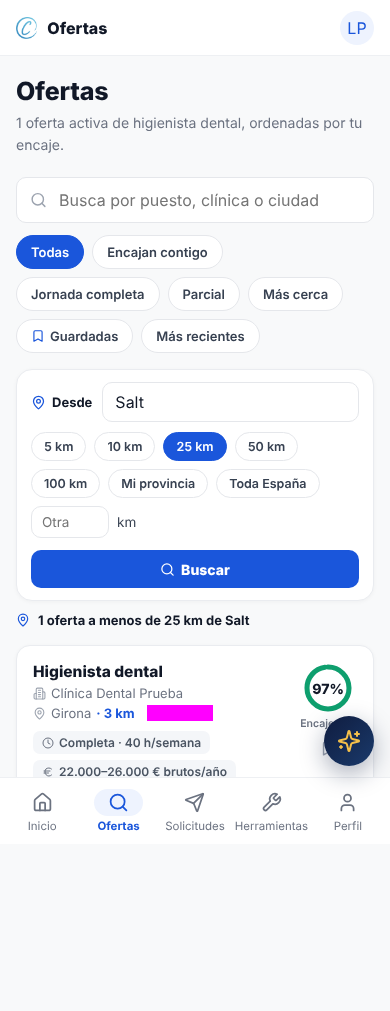
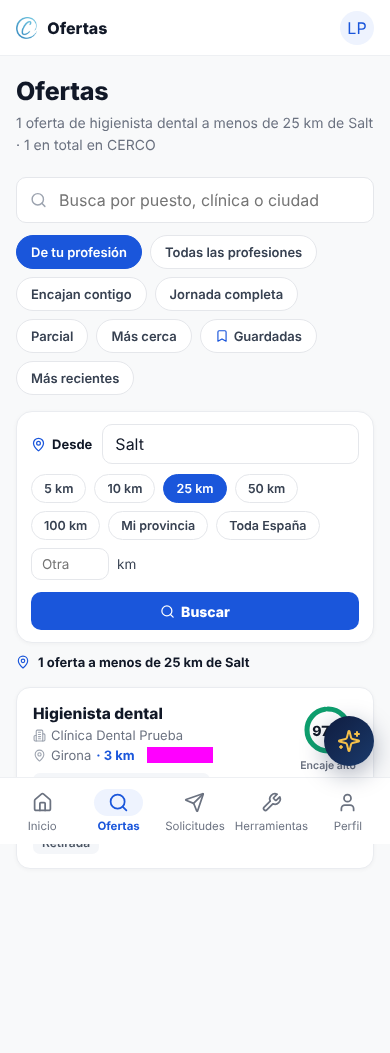
Ofertas del profesional: claro qué son «las de tu profesión» y dónde están todas
- Fichas «De tu profesión» (la que sale al entrar) y «Todas las
  profesiones», con el mismo diseño de ficha. Antes la primera se llamaba
  «Todas» pero solo enseñaba las de tu profesión, y las demás estaban
  tras un enlace pequeño.
- La frase de arriba dice los dos filtros y el total: «2 ofertas de
  higienista dental a menos de 25 km de Salt · 9 en total en CERCO».
- Debajo de la lista, lo que queda fuera y cómo verlo: «Hay 5 ofertas más
  lejos · Ver en toda España» y «Hay 3 ofertas de otras profesiones · Ver
  todas las profesiones».
- «Tu profesión» incluye también lo que has estudiado (p. ej., con el
  título de higiene bucodental ves las de higienista), y en odontología
  también cirugía oral y maxilofacial y prostodoncia.
Prueba nueva (68-ofertas-claras), que fallaba antes. Capturas de Ofertas
actualizadas.

Claude-Session: https://claude.ai/code/session_01L5qSpH5ECCjMh1xfSpjWDJ

diff --git a/public/profesional/01d-pantallas-y-guia.js b/public/profesional/01d-pantallas-y-guia.js
@@ -45,8 +45,10 @@ function ordenarOfertas(l){
 document.addEventListener('click', function(ev){
   var c = ev.target.closest && ev.target.closest('#of-fil .chip');
   if(!c) return;
-  S.filtro = c.dataset.f;
-  document.querySelectorAll('#of-fil .chip').forEach(function(x){ x.classList.toggle('on', x === c); });
+  // «De tu profesión» y «Todas las profesiones» eligen qué profesiones ves; las demás fichas filtran
+  if(c.dataset.f === 'todas-prof'){ S.filtro = 'todas'; S.verOtrasProf = true; }
+  else if(c.dataset.f === 'todas'){ S.filtro = 'todas'; S.verOtrasProf = false; }
+  else S.filtro = c.dataset.f;
   pintarOfertas();
 });
 
@@ -68,6 +70,7 @@ function pintarOfertas(){
     if(S.filtro !== 'guardadas' && !enRadio(o, z.origen, z.radio)){ fuera.push(o); return false; }
     return true;
   });
+  marcarFichasOfertas();
   var chG = document.querySelector('#of-fil .chip[data-f="guardadas"]'), nG = nGuardadas();
   var zb = $('of-zona'); if(zb) zb.style.display = S.filtro === 'guardadas' ? 'none' : '';
   if(chG) chG.innerHTML = svg('bookmark', S.filtro === 'guardadas' ? '#fff' : '#1A56DB', 14) + 'Guardadas' + (nG ? ' <b class="chip-n">' + nG + '</b>' : '');
@@ -79,21 +82,12 @@ function pintarOfertas(){
   l = ordenarOfertas(l);
   if(S.filtro === 'guardadas'){ var nz = $('of-nota'); if(nz) nz.innerHTML = svg('bookmark','#1A56DB',14)+'<span><b>'+l.length+(l.length === 1 ? ' oferta guardada' : ' ofertas guardadas')+'</b>, estén donde estén</span>'; }
   else pintarNotaZona(l.length, fuera);
-  var nz2 = $('of-nota'), pr = (S.perfil||{}).profesion;
-  if(nz2 && pr && PROF_RE[pr] && S.filtro !== 'guardadas'){
-    var otrasN = S.verOtrasProf ? base.filter(otraProfesion).length : otras.length;
-    if(otrasN) nz2.insertAdjacentHTML('beforeend', '<span class="of-prof">' + (S.verOtrasProf
-      ? 'Ves también ' + otrasN + ' de otras profesiones · <button class="link" onclick="S.verOtrasProf=false;pintarOfertas()">Ver solo ' + esc(pr.toLowerCase()) + '</button>'
-      : 'Solo ofertas de ' + esc(pr.toLowerCase()) + ' · hay ' + otrasN + ' de otras profesiones <button class="link" onclick="S.verOtrasProf=true;pintarOfertas()">Mostrarlas también</button>') + '</span>');
-  }
   var av = '';
   if(S.errOfertas && !hayReales()) av = '<div class="aviso">'+svg('info','#8A5A00',16)+'<span>No hemos podido cargar las ofertas. Revisa tu conexión y vuelve a abrir esta pantalla.</span></div>';
   else if(!hayReales()) av = '<div class="aviso aviso-info">'+svg('info','#1E3A8A',16)+'<span><b>Todavía no hay ofertas publicadas.</b> CERCO acaba de empezar: en cuanto una clínica publique una oferta de tu profesión, la verás aquí y en Inicio. Mientras tanto, deja tu perfil completo y activa «Que las clínicas me encuentren» en Ajustes.</span></div>';
   else if(!d) av = '<div class="aviso aviso-info">'+svg('compass','#1E3A8A',16)+'<span>Haz el test de personalidad para ver tu encaje con cada oferta y poder solicitarlas. <button class="link" onclick="abrirTest(false)">Hacerlo ahora</button></span></div>';
   $('of-aviso').innerHTML = av;
-  $('of-sub').textContent = hayReales()
-    ? ((function(){ var pr = (S.perfil||{}).profesion, n = (pr && PROF_RE[pr] && !S.verOtrasProf) ? base.filter(function(o){ return !otraProfesion(o); }).length : base.length; return n + (n === 1 ? ' oferta activa' : ' ofertas activas') + ((pr && PROF_RE[pr] && !S.verOtrasProf) ? ' de ' + pr.toLowerCase() : ''); })() + (S.filtro === 'recientes' ? ', de la más nueva a la más antigua.' : (d ? ', ordenadas por tu encaje.' : '.')))
-    : 'Ordenadas por lo bien que encajas con cada puesto.';
+  $('of-sub').textContent = hayReales() ? fraseOfertas(l.length, base.length, z) : 'Ordenadas por lo bien que encajas con cada puesto.';
   if(!l.length && fuera.length){
     var cer = fuera.slice().sort(function(a,b){ return (kmDe(a)||1e9) - (kmDe(b)||1e9); })[0], kc = kmDe(cer);
     box.innerHTML = '<div class="vacio"><b>Ninguna oferta '+esc(txtRadio(z.radio, z.origen))+'</b><p>Hay '+fuera.length+(fuera.length === 1 ? ' más lejos' : ' más lejos')+(kc !== null ? '; la más cercana, a '+kc+' km ('+esc(cer.ubicacion||'')+')' : '')+'.</p><div style="margin-top:14px;display:flex;gap:8px;justify-content:center;flex-wrap:wrap;">'
@@ -105,7 +99,27 @@ function pintarOfertas(){
     box.innerHTML = '<div class="vacio"><b>Sin resultados</b><p>'+(q ? 'Ninguna oferta coincide con «'+esc(q)+'». ' : 'Ninguna oferta cumple este filtro. ')+'Prueba con otra palabra o quita el filtro.</p><div style="margin-top:14px;"><button class="btn btn-p" onclick="limpiarFiltros()">Quitar los filtros</button></div></div>';
     return;
   }
-  box.innerHTML = l.map(tarjetaOferta).join('');
+  box.innerHTML = l.map(tarjetaOferta).join('')
+    // debajo de la lista: lo que queda fuera por los km o por la profesión, con cómo verlo
+    + (fuera.length && S.filtro !== 'guardadas' ? '<div class="of-mas">'+svg('pin','#1A56DB',14)+'<span>Hay '+fuera.length+(fuera.length === 1 ? ' oferta más lejos' : ' ofertas más lejos')+' · <button class="link" onclick="ponerRadio(\'todo\')">Ver en toda España</button></span></div>' : '')
+    + (otras.length && !S.verOtrasProf && S.filtro !== 'guardadas' ? '<div class="of-mas">'+svg('search','#1A56DB',14)+'<span>Hay '+otras.length+(otras.length === 1 ? ' oferta de otra profesión' : ' ofertas de otras profesiones')+' · <button class="link" onclick="S.verOtrasProf=true;S.filtro=\'todas\';pintarOfertas()">Ver todas las profesiones</button></span></div>' : '');
+}
+/* Fichas de arriba: «De tu profesión» / «Todas las profesiones» (si tienes profesión) y el resto */
+function marcarFichasOfertas(){
+  var conProf = profesionesDe(S.perfil).length > 0;
+  document.querySelectorAll('#of-fil .chip').forEach(function(x){
+    var f = x.dataset.f, on;
+    if(f === 'todas'){ x.textContent = conProf ? 'De tu profesión' : 'Todas'; on = S.filtro === 'todas' && (!conProf || !S.verOtrasProf); }
+    else if(f === 'todas-prof'){ x.hidden = !conProf; on = conProf && S.filtro === 'todas' && !!S.verOtrasProf; }
+    else on = S.filtro === f;
+    x.classList.toggle('on', !!on);
+  });
+}
+/* «2 ofertas de higienista dental a menos de 25 km de Salt · 9 en total en CERCO» */
+function fraseOfertas(n, total, z){
+  var pr = profesionesDe(S.perfil), deQue = (pr.length && !S.verOtrasProf) ? ' de ' + pr.join(' o ').toLowerCase() : ' de todas las profesiones';
+  var donde = S.filtro === 'guardadas' ? '' : (z && z.origen ? ' ' + txtRadio(z.radio, z.origen) : '');
+  return n + (n === 1 ? ' oferta' : ' ofertas') + deQue + donde + ' · ' + total + ' en total en CERCO';
 }
 /* Buscar: usa lo que haya escrito en «Desde» y en los km, aunque no se haya elegido de la lista */
 function buscarZona(){
@@ -150,7 +164,7 @@ document.addEventListener('click', function(ev){
   var c = ev.target.closest && ev.target.closest('#of-rad .chip');
   if(c) ponerRadio(c.dataset.r);
 });
-function limpiarFiltros(){ $('of-q').value = ''; S.filtro = 'todas'; document.querySelectorAll('#of-fil .chip').forEach(function(x){ x.classList.toggle('on', x.dataset.f === 'todas'); }); pintarOfertas(); }
+function limpiarFiltros(){ $('of-q').value = ''; S.filtro = 'todas'; S.verOtrasProf = false; document.querySelectorAll('#of-fil .chip').forEach(function(x){ x.classList.toggle('on', x.dataset.f === 'todas'); }); pintarOfertas(); }
 
 function cellUbic(o){
   var k = o.ejemplo ? null : kmDe(o, (S.perfil||{}).geo), p = S.perfil || {};

diff --git a/pruebas/e2e/68-ofertas-claras.spec.js b/pruebas/e2e/68-ofertas-claras.spec.js
@@ -1,0 +1,64 @@
+// Ofertas del profesional: se ve claro qué son «las de tu profesión» y dónde están
+// todas. Fichas «De tu profesión» / «Todas las profesiones», la frase de arriba con los
+// dos filtros y, debajo de la lista, lo que queda fuera y cómo verlo.
+const { test, expect, nuevaVentana, vaciarEmulador, FIRESTORE, PROYECTO } = require('../apoyo/entorno');
+const A = require('../apoyo/acciones');
+
+const OFERTA = (titulo, municipio) => ({ titulo, municipio, jornada: 'Completa · 40 h/semana', salarioMin: '22000', salarioMax: '26000',
+  contrato: 'Indefinido', convenio: 'Convenio colectivo de clínicas dentales de la provincia', horario: ['Mañanas'], tareas: [], proceso: ['Entrevista'], requisitos: 'Titulación' });
+
+test('Ofertas: de tu profesión, todas las profesiones y las que quedan lejos', async ({ browser }, testInfo) => {
+  test.skip(testInfo.project.name !== 'ordenador', 'basta con un tamaño de pantalla');
+  await vaciarEmulador();
+  const vc = await nuevaVentana(browser, testInfo), c = vc.page;
+  await A.registrarClinica(c, 'ofertas@prueba.es');
+  await A.configurarClinica(c);
+  await A.publicarOferta(c, OFERTA('Higienista dental', 'Girona'));
+  await A.publicarOferta(c, OFERTA('Auxiliar de clínica dental', 'Girona'));
+  await A.publicarOferta(c, OFERTA('Higienista dental de Madrid', 'Madrid'));
+  // (se espera a que las tres estén publicadas de verdad en la nube)
+  await expect.poll(async () => {
+    const r = await (await fetch(`http://${FIRESTORE.host}:${FIRESTORE.port}/v1/projects/${PROYECTO}/databases/(default)/documents/ofertas_publicas`, { headers: { Authorization: 'Bearer owner' } })).json();
+    return (r.documents || []).length;
+  }, { timeout: 30_000 }).toBe(3);
+  await vc.context.close();
+
+  const v = await nuevaVentana(browser, testInfo), p = v.page;
+  await A.registrarProfesional(p, 'higienista@prueba.es');
+  await A.altaProfesional(p);
+  await p.check('#t-consent'); await p.getByRole('button', { name: 'Empezar el test' }).click();
+  await A.contestarTestProfesional(p, { pesos: { D: 1, I: 3, S: 2, C: 4 } });
+  await p.click('#tr-btn'); await p.locator('#gu-next').waitFor(); await p.evaluate(() => guiaCerrar());
+  await p.evaluate(() => ir('ofertas'));
+
+  const fichas = p.locator('#of-fil .chip');
+  const tarjetas = p.locator('#of-list .of-t');
+  // Al entrar: «De tu profesión», y la frase dice qué y dónde
+  await expect(fichas.first()).toHaveText('De tu profesión');
+  await expect(fichas.first()).toHaveClass(/on/);
+  await expect(p.locator('#of-fil .chip[data-f="todas-prof"]')).toBeVisible();
+  await expect(p.locator('#of-sub')).toHaveText('1 oferta de higienista dental a menos de 25 km de Salt · 3 en total en CERCO');
+  await expect(tarjetas).toHaveText(['Higienista dental']);
+  // Debajo de la lista: lo que queda fuera, con cómo verlo
+  await expect(p.locator('.of-mas').nth(0)).toContainText('Hay 1 oferta más lejos · Ver en toda España');
+  await expect(p.locator('.of-mas').nth(1)).toContainText('Hay 1 oferta de otra profesión · Ver todas las profesiones');
+  // «Todas las profesiones»
+  await p.locator('#of-fil .chip[data-f="todas-prof"]').click();
+  await expect(p.locator('#of-fil .chip[data-f="todas-prof"]')).toHaveClass(/on/);
+  await expect(fichas.first()).not.toHaveClass(/on/);
+  await expect(tarjetas).toHaveCount(2);
+  await expect(p.locator('#of-sub')).toHaveText('2 ofertas de todas las profesiones a menos de 25 km de Salt · 3 en total en CERCO');
+  // «Ver en toda España»
+  await p.getByRole('button', { name: 'Ver en toda España' }).click();
+  await expect(tarjetas).toHaveCount(3);
+  await expect(p.locator('#of-sub')).toHaveText('3 ofertas de todas las profesiones en toda España · 3 en total en CERCO');
+  // Vuelta a «De tu profesión»
+  await fichas.first().click();
+  await expect(tarjetas).toHaveCount(2);
+  // Lo que has estudiado también cuenta: auxiliar con el título de higiene bucodental ve las dos
+  await p.evaluate(() => { S.perfil.profesion = 'Auxiliar de clínica dental'; S.perfil.titulacion = 'Técnico Superior en Higiene Bucodental'; pintarOfertas(); });
+  await expect(p.locator('#of-sub')).toHaveText('3 ofertas de auxiliar de clínica dental o higienista dental en toda España · 3 en total en CERCO');
+  await expect(tarjetas).toHaveCount(3);
+  expect(p.erroresPagina).toEqual([]);
+  await v.context.close();
+});

diff --git a/public/profesional/02-lideres-y-efecto-rebote.js b/public/profesional/02-lideres-y-efecto-rebote.js
@@ -170,11 +170,26 @@ function rechazarPropuesta(tipo, oid){
 /* ---------- 4. efecto rebote ---------- */
 var PROF_RE = {
   'Higienista dental':/higien/i, 'Auxiliar de clínica dental':/auxiliar|asistente|ayudante/i,
-  'Odontólogo/a':/odont|dentist|implant|endodon|periodon|est[eé]tica dental|general/i, 'Ortodoncista':/ortodon/i,
+  'Odontólogo/a':/odont|dentist|implant|endodon|periodon|prostodon|ciruj|maxilofac|est[eé]tica dental|general/i, 'Ortodoncista':/ortodon/i,
   'Protésico/a dental':/prot[eé]sic|laboratorio/i, 'Recepción y atención al paciente':/recepci|atenci[oó]n al paciente|front ?desk|administrativ/i,
   'Coordinación o gerencia de clínica':/coordinad|gerent|direct|manager|responsable/i
 };
-function mismaProfesion(o, p){ var re = PROF_RE[(p||{}).profesion]; return re ? re.test(o.titulo || '') : true; }
+// Lo que has estudiado también cuenta como «tu profesión» (p. ej., con el título de higiene
+// bucodental ves también las ofertas de higienista, aunque tu profesión sea auxiliar)
+var PROF_TITULO = [
+  [/higien/i, 'Higienista dental'], [/auxiliar|cuidados auxiliares|tcae/i, 'Auxiliar de clínica dental'],
+  [/prot[eé]sic/i, 'Protésico/a dental'], [/odontolog|estomatolog|dentista/i, 'Odontólogo/a'],
+  [/ortodon/i, 'Ortodoncista'], [/administra|recepci/i, 'Recepción y atención al paciente']
+];
+function profesionesDe(p){
+  p = p || {}; var l = PROF_RE[p.profesion] ? [p.profesion] : [];
+  PROF_TITULO.forEach(function(x){ if(x[0].test(p.titulacion || '') && l.indexOf(x[1]) === -1) l.push(x[1]); });
+  return l;
+}
+function mismaProfesion(o, p){
+  var l = profesionesDe(p); if(!PROF_RE[(p||{}).profesion]) return true;
+  return l.some(function(k){ return PROF_RE[k].test(o.titulo || ''); });
+}
 function clinicasQueDescartaron(){ var no = {}; S.sols.forEach(function(s){ if(s.estado === 'descartada') no[s.clinicaId] = 1; }); return no; }
 function elegirRebote(s){
   var p = S.perfil || {}, d = p.disc; if(!d) return null;

diff --git a/candidato.html b/candidato.html
@@ -341,6 +341,7 @@
     <div class="search"><span data-ico="search" data-s="17" data-c="#9CA3AF"></span><input class="inp" type="search" id="of-q" placeholder="Busca por puesto, clínica o ciudad" oninput="pintarOfertas()"></div>
     <div class="chips" id="of-fil" style="margin-bottom:16px;">
       <span class="chip on" data-f="todas">Todas</span>
+      <span class="chip" data-f="todas-prof" hidden>Todas las profesiones</span>
       <span class="chip" data-f="encajan">Encajan contigo</span>
       <span class="chip" data-f="Completa">Jornada completa</span>
       <span class="chip" data-f="Parcial">Parcial</span>

diff --git a/src/estilos/profesional.css b/src/estilos/profesional.css
@@ -1062,3 +1062,7 @@ body.en-dx .tab.active .ico{background:rgba(255,255,255,.16);}
   #t-ops .opt-n small{display:none;}
   #t-ops .opt-n{grid-template-columns:repeat(4,1fr);}
 }
+
+/* Ofertas: lo que queda fuera de la lista (por los km o la profesión) y cómo verlo */
+.of-mas{display:flex;align-items:center;gap:7px;font-size:13px;color:var(--muted);margin:4px 2px 10px;}
+.of-mas .link{font-weight:700;}
